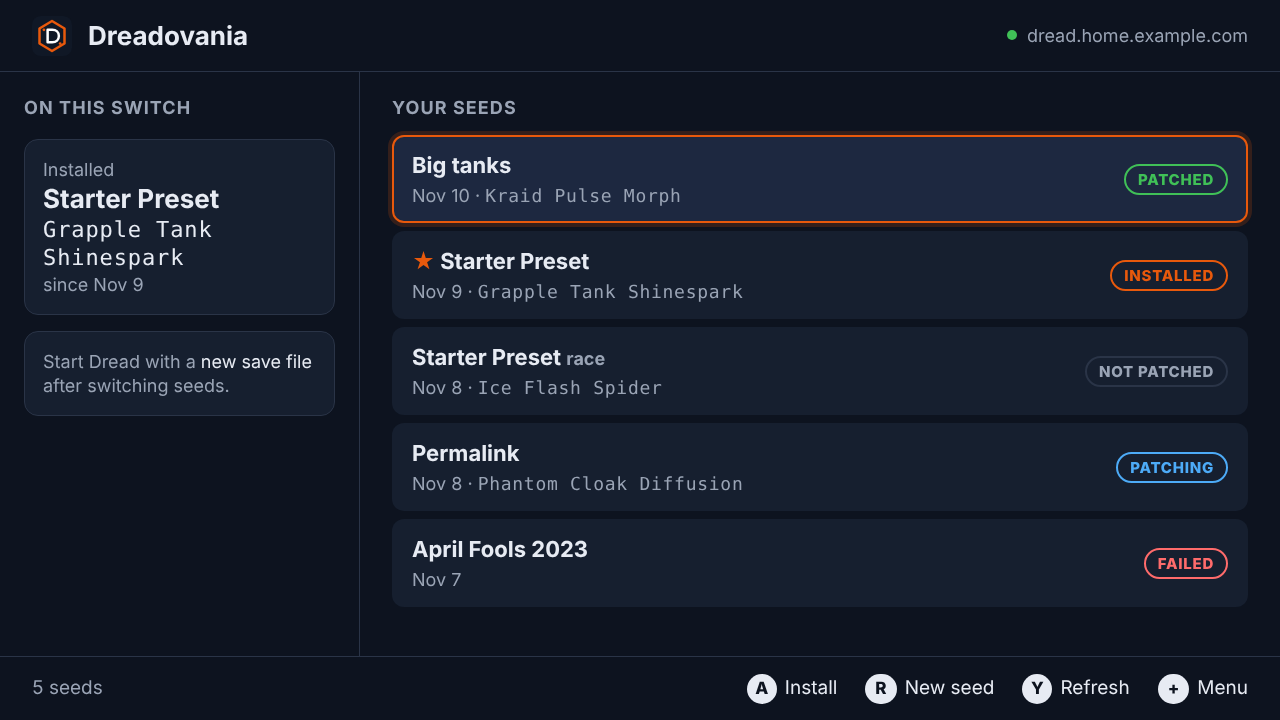
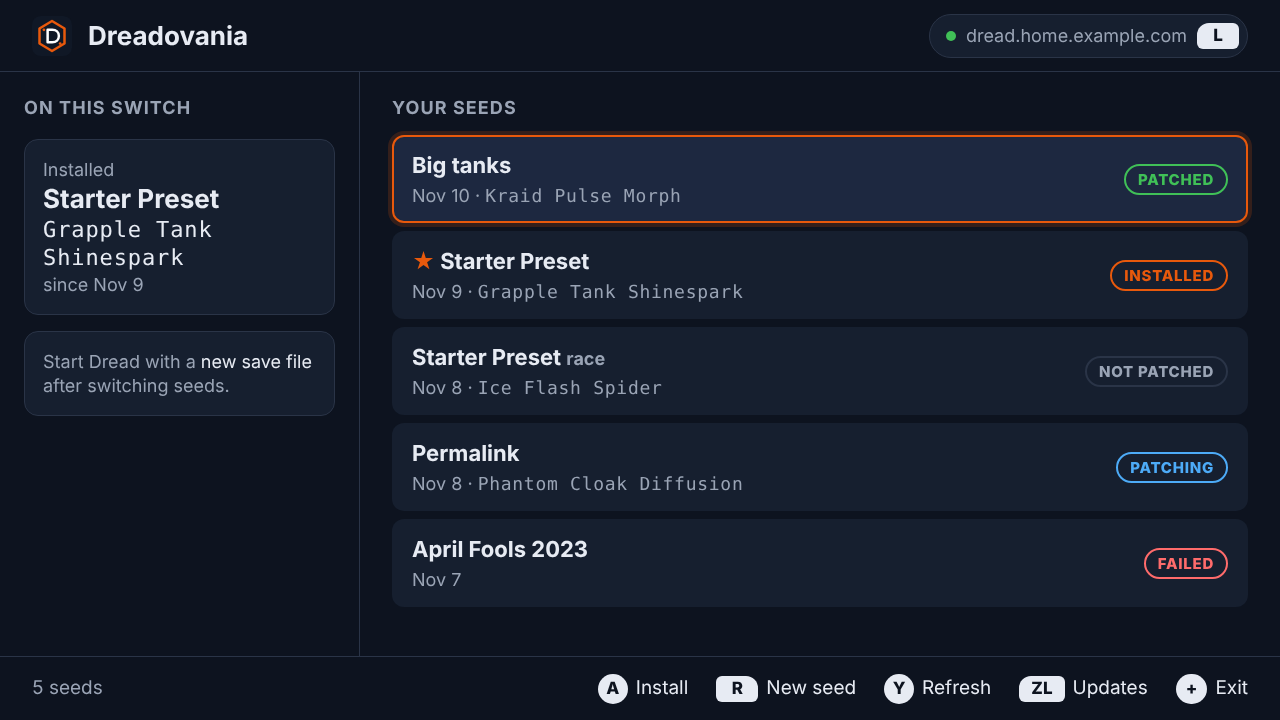
Check for app updates (ZL); L in the header; shoulder-button glyphs (#27)
## What and why

### 1. Check for updates (first commit)

You asked for a way to check for app updates from the app.

- **ZL — Updates** in the seed list asks the server to check GitHub now, using `GET /api/v1/app/latest?check=true` (server ADR 0022). The app then says what it found:
  - "Version X is ready: press - to update." (The update card also appears.)
  - "This app is up to date (0.6.0)."
  - "No update offered: <the server's reason>", for example when updates are turned off on the server.
  - "The server didn't say whether there's an update", for a server too old to offer app updates.
- The ZL hint shows when no update is waiting. When one is, **−** Update shows instead.
- **The footer** now measures its button hints first and cuts its left text to fit, so the "6 seeds · Not linked to …" note can't run into the hints, on any screen.
- The README mentions **−** and **ZL**.

### 2. L in the header, and shoulder-button glyphs (second commit)

After seeing the prototypes, you chose variant B:

- **The seed list's header** shows the status dot, the server's address and an **L** button together in one outlined pill. The control that changes the server sits next to it.
  - "L Servers" leaves the bottom bar, which now reads A Install · R New seed · Y Refresh · ZL Updates · + Exit.
  - The L only shows on the seed list, where L works, and not while a dialog is open.
- **Shoulder buttons look like shoulder buttons.**
[…]

Changed region(s): [[0.4688, 0.9167, 0.9688, 0.9778], [0.7188, 0.0306, 0.9688, 0.0917]]

diff --git a/docs/design/1-library.html b/docs/design/1-library.html
@@ -1,4 +1,4 @@
-<!doctype html><!-- SPDX-License-Identifier: GPL-3.0-or-later --><html><head><meta charset="utf-8"><link rel="stylesheet" href="mockups.css"></head><body><div class="screen"><header class="top"><img src="icon.svg" alt=""><span class="title">Dreadovania</span><span class="server"><span class="dot"></span>dread.home.example.com</span></header>
+<!doctype html><!-- SPDX-License-Identifier: GPL-3.0-or-later --><html><head><meta charset="utf-8"><link rel="stylesheet" href="mockups.css"></head><body><div class="screen"><header class="top"><img src="icon.svg" alt=""><span class="title">Dreadovania</span><span class="server pill"><span class="dot"></span>dread.home.example.com<span class="glyph shoulder shoulder-l">L</span></span></header>
 <main>
   <aside>
     <h2>On this Switch</h2>
@@ -18,6 +18,6 @@
   </section>
 </main>
 <footer class="bottom"><span class="left">5 seeds</span>
-  <span class="btn"><span class="glyph">A</span>Install</span><span class="btn"><span class="glyph wide">R</span>New seed</span>
-  <span class="btn"><span class="glyph">Y</span>Refresh</span><span class="btn"><span class="glyph wide">+</span>Menu</span></footer>
+  <span class="btn"><span class="glyph">A</span>Install</span><span class="btn"><span class="glyph shoulder shoulder-r">R</span>New seed</span>
+  <span class="btn"><span class="glyph">Y</span>Refresh</span><span class="btn"><span class="glyph shoulder shoulder-l">ZL</span>Updates</span><span class="btn"><span class="glyph wide">+</span>Exit</span></footer>
 </div></body></html>

diff --git a/docs/design/6-installed.html b/docs/design/6-installed.html
@@ -1,4 +1,4 @@
-<!doctype html><!-- SPDX-License-Identifier: GPL-3.0-or-later --><html><head><meta charset="utf-8"><link rel="stylesheet" href="mockups.css"></head><body><div class="screen"><header class="top"><img src="icon.svg" alt=""><span class="title">Dreadovania</span><span class="server"><span class="dot"></span>dread.home.example.com</span></header>
+<!doctype html><!-- SPDX-License-Identifier: GPL-3.0-or-later --><html><head><meta charset="utf-8"><link rel="stylesheet" href="mockups.css"></head><body><div class="screen"><header class="top"><img src="icon.svg" alt=""><span class="title">Dreadovania</span><span class="server pill"><span class="dot"></span>dread.home.example.com<span class="glyph shoulder shoulder-l">L</span></span></header>
 <main>
   <aside>
     <h2>On this Switch</h2>
@@ -18,7 +18,7 @@
   </section>
 </main>
 <footer class="bottom"><span class="left">5 seeds</span>
-  <span class="btn"><span class="glyph">A</span>Install</span><span class="btn"><span class="glyph wide">R</span>New seed</span>
+  <span class="btn"><span class="glyph">A</span>Install</span><span class="btn"><span class="glyph shoulder shoulder-r">R</span>New seed</span>
   <span class="btn"><span class="glyph">Y</span>Refresh</span><span class="btn"><span class="glyph wide">+</span>Menu</span></footer>
 
 <div class="toast"><span class="dot"></span>Installed 394 files (25.1 MB). Close the app and start Dread with a new save file.</div>

diff --git a/docs/design/mockups.css b/docs/design/mockups.css
@@ -19,6 +19,13 @@ html, body { margin: 0; width: 1280px; height: 720px; overflow: hidden; backgrou
 .glyph { width: 30px; height: 30px; border-radius: 50%; background: var(--fg); color: var(--bg); font-weight: 800; font-size: 17px;
   display: inline-flex; align-items: center; justify-content: center; }
 .glyph.wide { width: auto; padding: 0 10px; border-radius: 15px; }
+/* Shoulder buttons (L, R, ZL, ZR): flatter, with the outer top corner rounder. */
+.glyph.shoulder { width: auto; min-width: 42px; height: 26px; padding: 0 12px; box-sizing: border-box; }
+.glyph.shoulder-l { border-radius: 12px 6px 6px 6px; }
+.glyph.shoulder-r { border-radius: 6px 12px 6px 6px; }
+/* The server in the header, with the button that changes it (ADR 0010). */
+.top .server.pill { border: 1px solid var(--line); background: var(--panel); border-radius: 22px;
+  padding: 8px 8px 8px 16px; }
 main { display: grid; grid-template-columns: 360px 1fr; min-height: 0; }
 aside { padding: 24px; border-right: 1px solid var(--line); display: flex; flex-direction: column; gap: 16px; }
 .section { padding: 24px 32px; min-height: 0; display: flex; flex-direction: column; gap: 12px; }

diff --git a/docs/design/5-confirm.html b/docs/design/5-confirm.html
@@ -18,7 +18,7 @@
   </section>
 </main>
 <footer class="bottom"><span class="left">5 seeds</span>
-  <span class="btn"><span class="glyph">A</span>Install</span><span class="btn"><span class="glyph wide">R</span>New seed</span>
+  <span class="btn"><span class="glyph">A</span>Install</span><span class="btn"><span class="glyph shoulder shoulder-r">R</span>New seed</span>
   <span class="btn"><span class="glyph">Y</span>Refresh</span><span class="btn"><span class="glyph wide">+</span>Menu</span></footer>
 
 <div class="overlay"><div class="dialog">

diff --git a/source/ui/widgets.cpp b/source/ui/widgets.cpp
@@ -1,6 +1,7 @@
 // SPDX-License-Identifier: GPL-3.0-or-later
 #include "ui/widgets.hpp"
 
+#include <algorithm>
 #include <cmath>
 
 namespace ui {
@@ -37,20 +38,55 @@ void logo(Gfx& g, int x, int y, int size) {
            size / 2, color::fg, true, Align::Center);
 }
 
-void header(Gfx& g, const std::string& right, bool connected) {
+void header(Gfx& g, const std::string& right, bool connected, const std::string& button) {
     logo(g, 32, 16, 40);
     g.text("Dreadovania", 88, 20, 26, color::fg, true);
-    int w = g.text(right, Gfx::kWidth - 32, 25, kSmall, color::muted, false, Align::Right, 560);
+    int end = Gfx::kWidth - 32;
+    if (!button.empty()) {
+        // A pill around the status, address and button: the whole thing reads as
+        // one control, "press L to change the server".
+        int gw = glyph_width(g, button);
+        int tw = std::min(g.measure(right, kSmall), 560);
+        int pill_w = 12 + gw + 12 + tw + (connected ? 26 : 0) + 18;
+        g.framed(end - pill_w, 14, pill_w, 44, 22, 1, color::line, color::panel);
+        glyph(g, end - 7 - gw, 36, button);
+        end -= 7 + gw + 12;
+    }
+    int w = g.text(right, end, 25, kSmall, color::muted, false, Align::Right, 560);
     if (connected && w > 0) {
-        g.circle(Gfx::kWidth - 32 - w - 16, 36, 5, color::ok);
+        g.circle(end - w - 16, 36, 5, color::ok);
     }
     g.box(0, kHeader - 1, Gfx::kWidth, 1, 0, color::line);
 }
 
+static bool is_shoulder(const std::string& label) {
+    return label == "L" || label == "R" || label == "ZL" || label == "ZR";
+}
+
+int glyph_width(Gfx& g, const std::string& label) {
+    if (is_shoulder(label)) {
+        return std::max(42, g.measure(label, 17, true) + 24);
+    }
+    return label.size() <= 1 ? 30 : g.measure(label, 17, true) + 20;
+}
+
 int glyph(Gfx& g, int x, int cy, const std::string& label) {
-    int tw = g.measure(label, 17, true);
-    int w = label.size() <= 1 ? 30 : tw + 20;
-    g.box(x, cy - 15, w, 30, 15, color::fg);
+    int w = glyph_width(g, label);
+    if (is_shoulder(label)) {
+        // Like the button itself: a flat rounded rectangle whose outer top corner
+        // is rounder (left for L and ZL, right for R and ZR).
+        const int h = 26, small = 6, big = 12;
+        const int y = cy - h / 2;
+        bool left = label.front() == 'L' || label == "ZL";
+        int corner_x = left ? x + big : x + w - big;
+        g.box(left ? x + big : x, y, w - big, h, small, color::fg);
+        g.box(x, y + big, w, h - big, small, color::fg);
+        g.box(left ? x : x + w - big, y + big, big, small, 0, color::fg);  // no notch below
+        g.box(left ? x + big : x + w - big - small, y, small, big, 0, color::fg);
+        g.circle(corner_x, y + big, big, color::fg);
+    } else {
+        g.box(x, cy - 15, w, 30, 15, color::fg);
+    }
     g.text(label, x + w / 2, g.top_for_center(cy, 17, true), 17, color::bg, true, Align::Center);
     return w;
 }
@@ -60,13 +96,20 @@ void footer(Gfx& g, const std::string& left, const std::vector<Hint>& hints) {
     g.box(0, top, Gfx::kWidth, 1, 0, color::line);
     int cy = top + kFooter / 2;
     const int label_top = g.top_for_center(cy, kSmall + 1);
-    g.text(left, 32, label_top, kSmall + 1, color::muted, false, Align::Left, 420);
+    int hints_w = 0;
+    for (const Hint& h : hints) {
+        int gw = glyph_width(g, h.first);
+        hints_w += g.measure(h.second, kSmall + 1) + gw + 8 + 28;
+    }
+    // The left text gets what the hints leave, so the two never overlap.
+    int left_w = std::max(1, Gfx::kWidth - 32 - hints_w - 32);  // 0 would mean no limit
+    g.text(left, 32, label_top, kSmall + 1, color::muted, false, Align::Left, left_w);
     int x = Gfx::kWidth - 32;
     for (auto it = hints.rbegin(); it != hints.rend(); ++it) {
         int label_w = g.measure(it->second, kSmall + 1);
         x -= label_w;
         g.text(it->second, x, label_top, kSmall + 1, color::fg);
-        int gw = it->first.size() <= 1 ? 30 : g.measure(it->first, 17, true) + 20;
+        int gw = glyph_width(g, it->first);
         x -= gw + 8;
         glyph(g, x, cy, it->first);
         x -= 28;

diff --git a/source/main.cpp b/source/main.cpp
@@ -295,6 +295,8 @@ class App {
             refresh();
         } else if (down & HidNpadButton_L) {
             open_servers();
+        } else if (down & HidNpadButton_ZL) {
+            check_for_update_now();
         } else if (down & (HidNpadButton_AnyDown | HidNpadButton_AnyUp)) {
             std::size_t before = v_.cursor;
             move(v_.cursor, v_.seeds.size(), down);
@@ -669,11 +671,15 @@ class App {
 
     // ---- updating the app (server ADR 0021) ---------------------------------------------
 
-    void check_for_update() {
-        app::Response r = http_.request("GET", url("/api/v1/app/latest"), "", config_->token);
+    // Asks the server about the app's latest release. With check_now, the server
+    // asks GitHub again rather than answer from its last check (server ADR 0022).
+    // Returns false if the server didn't answer.
+    bool check_for_update(bool check_now = false) {
+        const char* path = check_now ? "/api/v1/app/latest?check=true" : "/api/v1/app/latest";
+        app::Response r = http_.request("GET", url(path), "", config_->token);
         auto latest = r.status == 200 ? dreadovania::parse_app_latest(r.body) : std::nullopt;
         if (!latest) {
-            return;  // an older server without updates, or a hiccup: try again next refresh
+            return false;  // an older server without updates, or a hiccup: try again next refresh
         }
         latest_ = *latest;
         auto need = dreadovania::update_need(dreadovania::kVersion, latest_);
@@ -681,6 +687,23 @@ class App {
         bool newer = latest_.available &&
                      dreadovania::compare_versions(latest_.version, dreadovania::kVersion) > 0;
         v_.update_version = newer ? latest_.version : "";
+        return true;
+    }
+
+    // The "Check for updates" button: ask now, and say what was found.
+    void check_for_update_now() {
+        say("Checking for updates...", false);
+        render();
+        if (!check_for_update(true)) {
+            say("The server didn't say whether there's an update. It may be too old to "
+                "offer app updates.", true);
+        } else if (!v_.update_version.empty()) {
+            say("Version " + v_.update_version + " is ready: press - to update.", false);
+        } else if (latest_.available) {
+            say("This app is up to date (" + std::string(dreadovania::kVersion) + ").", false);
+        } else {
+            say("No update offered: " + latest_.reason + ".", false);
+        }
     }
 
     void update_app() {

diff --git a/source/ui/widgets.hpp b/source/ui/widgets.hpp
@@ -37,10 +37,15 @@ Color tone_color(dreadovania::Tone tone);
 using Hint = std::pair<std::string, std::string>;  // button, what it does
 
 void logo(Gfx& g, int x, int y, int size);
-void header(Gfx& g, const std::string& right, bool connected);
+// The top bar. ``button``, if given, is drawn after the server address: the
+// button that changes it (L opens the Servers screen, ADR 0010).
+void header(Gfx& g, const std::string& right, bool connected, const std::string& button = "");
 void footer(Gfx& g, const std::string& left, const std::vector<Hint>& hints);
 // A controller button's letter in a circle (or a pill for wider labels). Returns its width.
+// A controller button: a circle for A, B, X, Y, + and -; the shape of a
+// shoulder button for L, R, ZL and ZR. Returns its width.
 int glyph(Gfx& g, int x, int cy, const std::string& label);
+int glyph_width(Gfx& g, const std::string& label);
 // A chip whose right edge is at `right`. Returns its width.
 int chip(Gfx& g, int right, int cy, const std::string& label, Color c);
 void section_title(Gfx& g, int x, int y, const std::string& text);

diff --git a/source/ui/screens.cpp b/source/ui/screens.cpp
@@ -139,9 +139,11 @@ static void draw_library(Gfx& g, const View& v) {
         count += "  ·  " + v.server_note;
     }
     std::vector<ui::Hint> hints = {{"A", "Install"}, {"R", "New seed"}, {"Y", "Refresh"},
-                                   {"L", "Servers"}, {"+", "Exit"}};
+                                   {"+", "Exit"}};
     if (!v.update_version.empty() || v.update_required) {
         hints.insert(hints.begin(), {"-", "Update"});
+    } else {
+        hints.insert(hints.end() - 1, {"ZL", "Updates"});
     }
     ui::footer(g, count, hints);
 }
@@ -413,7 +415,9 @@ void draw(Gfx& g, const View& v) {
     if (right.rfind("https://", 0) == 0) {
         right = right.substr(8);
     }
-    ui::header(g, right, v.connected);
+    // L, next to the server it changes, opens the Servers screen (ADR 0010).
+    bool servers_button = v.screen == Screen::Library && v.dialog == Dialog::None;
+    ui::header(g, right, v.connected, servers_button ? "L" : "");
     switch (v.screen) {
         case Screen::Pair:
             draw_pair(g, v);

diff --git a/tools/preview/preview.cpp b/tools/preview/preview.cpp
@@ -145,6 +145,11 @@ int main(int argc, char** argv) {
     not_linked.server_note = "Not linked to Cafe Guest";
     shot("13-library-not-linked", not_linked);
 
+    ui::View checked = not_linked;
+    checked.toast = "This app is up to date (0.6.0).";
+    checked.show_toast = true;
+    shot("15-checked-for-updates", checked);
+
     ui::View another;
     another.pairing_another = true;
     shot("14-pair-another", another);

diff --git a/docs/design/README.md b/docs/design/README.md
@@ -21,8 +21,13 @@ artwork, the same as the server's.
 - **Big enough for handheld mode:** body text 22 px, nothing under 15 px,
   the selection obvious from across the room (accent border and glow).
 - **Every screen ends in a bar of button hints**, using the controller's own
-  letters, so nothing has to be remembered. Touch works too: tap a row to
-  select it, tap again to act.
+  letters, so nothing has to be remembered. A button that changes something in
+  the header sits next to it instead: **L**, in the pill with the server's
+  address, opens the Servers screen. Touch works too: tap a row to select it,
+  tap again to act.
+- **Button glyphs look like the buttons:** circles for A, B, X, Y, + and −;
+  flat rounded shapes, with the outer top corner rounder, for the shoulder
+  buttons L, R, ZL and ZR.
 - **Say what happens before it happens**, and what changed after: the steps on
   the working screen, the toast with the file count, and asking before
   touching another mod's files.

diff --git a/README.md b/README.md
@@ -37,6 +37,10 @@ mods' files are kept; it asks before replacing any). `*` marks the installed see
 
 Patching needs your game files on the server (its **Game files** page).
 
+**Updates:** when your server has a newer app, the seed list shows it; press
+**−** to update in place. **ZL** checks for one right away (the server asks GitHub
+at most every 5 minutes).
+
 **Several servers** ([ADR 0010](docs/adr/0010-several-servers-by-network.md)): press
 **L** for the Servers screen. **Y** pairs another server; pairing links the Wi-Fi
 you're on to it, and the app then uses that server whenever the Switch is on that
